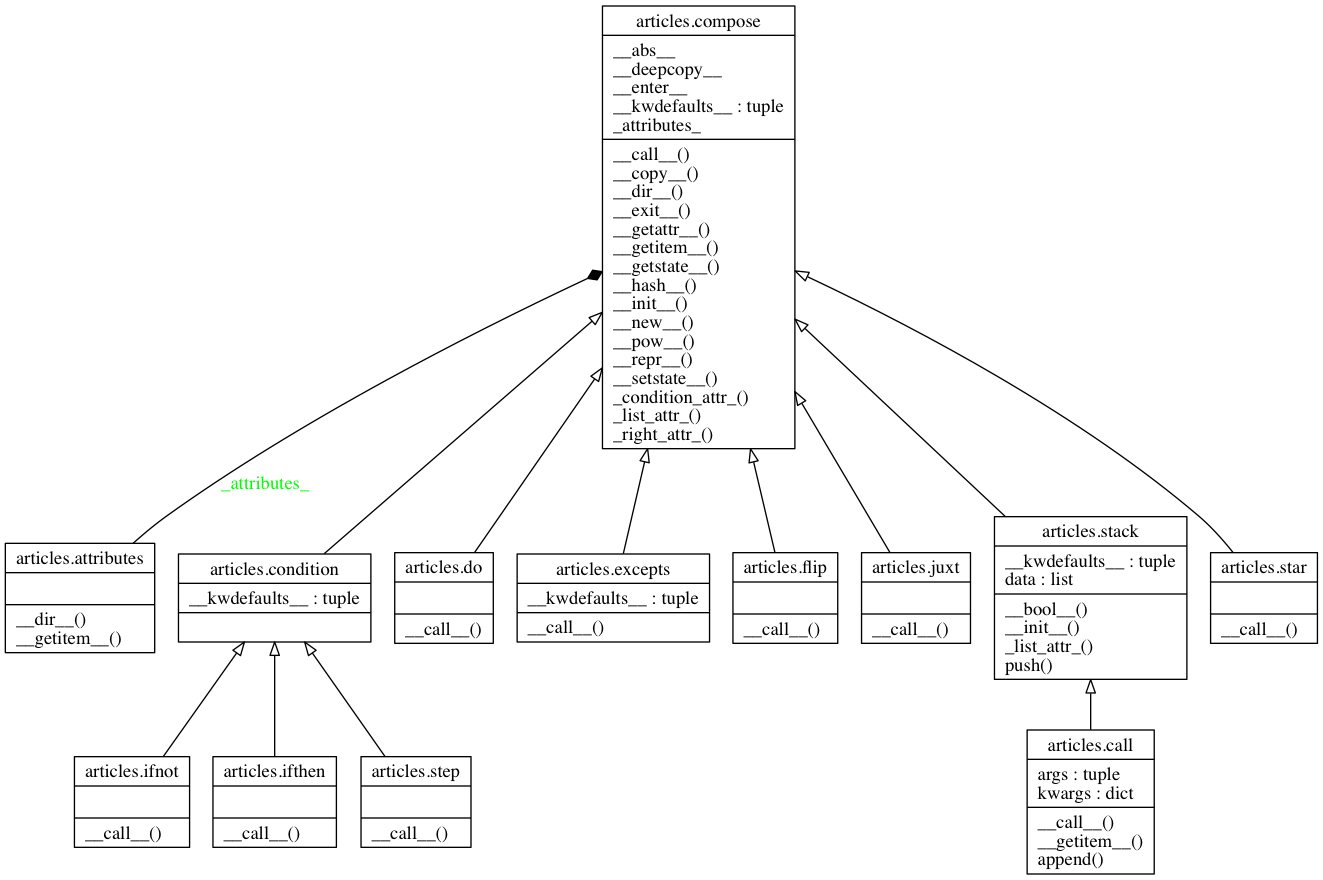
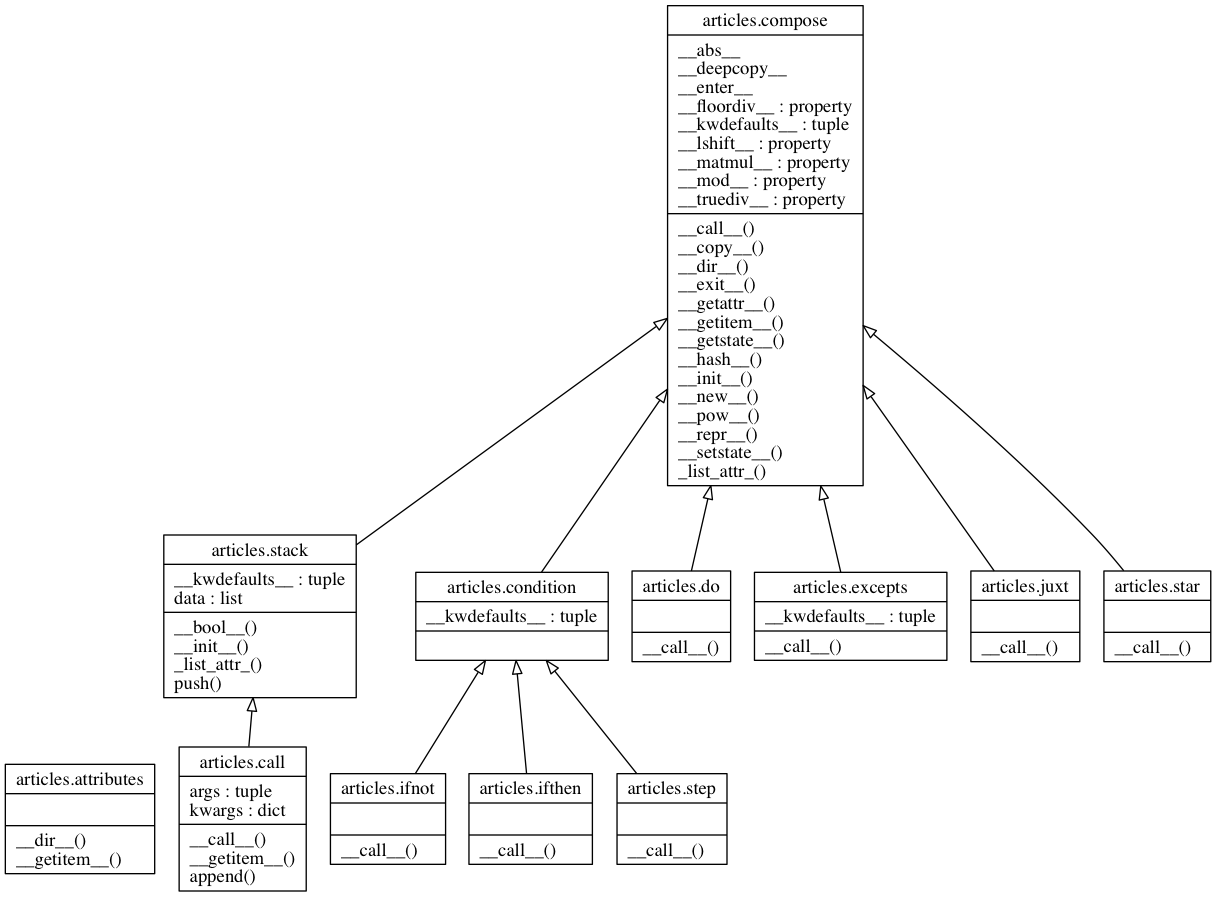
move some methods to functions

diff --git a/articles.py b/articles.py
@@ -1,12 +1,12 @@
 
 # coding: utf-8
 
-# `articles` are `callable` user defined lists in python. Use arthimetic and list operations to compose dense higher-order functions.   
+# `articles` are `callable` user defined lists in python. Use arthimetic and list operations to compose dense higher-order functions.
 
 from functools import singledispatch, partialmethod, wraps
 from itertools import zip_longest
 from collections import ChainMap
-from toolz.curried import first, isiterable, partial, identity, count, get, concat
+from toolz.curried import first, flip, isiterable, partial, identity, count, get, concat
 from copy import copy
 __all__ = 'a', 'an', 'the', 'then', 'f', 'star', 'flip', 'do', 
 from collections import UserList, OrderedDict
@@ -14,22 +14,19 @@ from collections import UserList, OrderedDict
 dunder = '__{}__'.format
 
 
-class attributes(ChainMap):
-    def __getitem__(self, key):
-        for mapping in self.maps:
-            try:
-                object = getattr(mapping, '__dict__', mapping)[key]
-                return (
-                    not isinstance(object, compose) 
-                    and isinstance(mapping, type) and flip or compose)(object)
-            except KeyError:
-                pass
-        raise AttributeError(key)
+def methods(cls):
+    # attach all list methods to the cls
+    for attr in dir(UserList):
+        if attr[0].islower():
+            setattr(cls, attr, partialmethod(cls._list_attr_, attr))
         
-    def __dir__(self):
-        return concat(map(lambda x: getattr(x, '__dict__', x).keys(), self.maps))
+    # attach the *, +, >>, - operators
+    for other in ['mul', 'add', 'rshift' ,'sub']:
+        setattr(cls, dunder(other), getattr(cls, 'append'))
+    return cls
 
 
+@methods
 class compose(UserList):
     __kwdefaults__ = ['data', list()],
         
@@ -43,21 +40,17 @@ class compose(UserList):
         super().__init__()
         for i, (slot, arg) in enumerate(zip_longest(self.__slots__, args)):
             default = self.__kwdefaults__[slot]
-
-            arg = kwargs.pop(slot, copy(default) if i >= len(args) else arg)
+            if i >= len(args):
+                arg = copy(default)
+                
+            arg = kwargs.pop(slot, arg)
             
-            if slot == 'data' and isinstance(arg, dict): arg = arg.items()
-
             if isiterable(default):
                 if not isiterable(arg):
                     arg = type(default)([arg])
                 if not isinstance(arg, type(default)):
                     arg = type(default)(arg)
-                    
             setattr(self, slot, arg)
-            
-
-    _attributes_ = attributes(*map(__import__, ['builtins', 'pathlib', 'operator', 'json', 'toolz']))
          
     def __getattr__(self, attr):
         if hasattr(type(self), attr):
@@ -72,7 +65,7 @@ class compose(UserList):
     def __getitem__(self, object):
         if object == slice(None):
             return self
-        if isiterable(object):
+        if isinstance(object, tuple):
             object = juxt(object)
         if callable(object):
             return self.append(object)
@@ -82,8 +75,8 @@ class compose(UserList):
         return list(super().__dir__()) + dir(self._attributes_)
     
     def __call__(self, *args, **kwargs):
-        for value in self:
-            args, kwargs = (value if not callable(value) else [value(*args, **kwargs)]), dict()
+        for callable in self:
+            args, kwargs = [callable(*args, **kwargs)], dict()
         return args[0] if len(args) else None    
             
     def __getstate__(self):
@@ -108,14 +101,9 @@ class compose(UserList):
     def __repr__(self):
         return ':'.join(map(repr, self.__getstate__()))
     
-    def _condition_attr_(self, callable, object):
-        return type(self)().append(callable(self, object))
     
     def _list_attr_(self, attr, *args):
         return getattr(super(), attr)(*args) or self
-    
-    def _right_attr_(self, attr, other):
-        return getattr(compose([other]), attr)(self)
 
     def __pow__(self, object):
         if isinstance(object, type):
@@ -126,22 +114,17 @@ class compose(UserList):
 
     __abs__ = __call__
     __enter__ = __deepcopy__ = __copy__
-
-
-compose._attributes_ = compose._attributes_.new_child(__import__('pathlib').Path)
+    
+    __truediv__ = property(partial(flip(__getattr__), 'map'))
+    __floordiv__ = property(partial(flip(__getattr__), 'filter'))
+    __matmul__ = property(partial(flip(__getattr__), 'groupby'))
+    __mod__ = property(partial(flip(__getattr__), 'reduce'))
+    __lshift__ = property(partial(flip(__getattr__), 'do'))
 
 
 class juxt(compose):
-    __kwdefaults__ = ['data', list()], ['type', tuple]
-    def __init__(self, *args):
-        super().__init__(*args)
-        if isiterable(args[0]):
-            self.type = type(args[0])
-            
     def __call__(self, *args, **kwargs):
-        return self.type((
-            (not isinstance(callable, str) and isiterable(callable)) 
-            and juxt or identity)(compose(callable))(*args, **kwargs) for callable in self)
+        return tuple((isinstance(callable, tuple) and juxt or identity)(callable)(*args, **kwargs) for callable in self)
 
 
 class flip(compose):
@@ -199,6 +182,7 @@ class excepts(compose):
             return e
 
 
+@methods
 class stack(compose):
     __kwdefaults__ = ['data', list([compose()])], 
     
@@ -207,9 +191,6 @@ class stack(compose):
         self.data = list(map(copy, self.data))
 
     def _list_attr_(self, attr, *args):
-        if attr == 'pop':
-            self.data.pop(*args)
-            return self
         try:
             self[-1]._list_attr_(attr, *args)
         except AttributeError:
@@ -223,6 +204,12 @@ class stack(compose):
 
     def __bool__(self):
         return any(map(bool, self))
+    
+def _pop(self, *args):
+    self.data.pop(*args)
+    return self
+
+stack.pop = _pop
 
 
 class call(stack):
@@ -242,28 +229,44 @@ class call(stack):
         self = type(self)()
         self.args, self.kwargs = args, kwargs
         return self
+    
 
 
-for cls in [compose, stack, call]:
-    for attr in dir(UserList):
-        if attr[0].islower() and call is not cls:
-            setattr(cls, attr, partialmethod(cls._list_attr_, attr))
-        
-    for other in ['mul', 'add', 'rshift' ,'sub']:
-        setattr(cls, dunder(other), getattr(cls, 'append'))
+def _condition_attr_(self, callable, object):
+    """"""
+    return type(self)().append(callable(self, object))
 
-compose.__and__ = partialmethod(compose._condition_attr_, step)
-compose.__or__ = partialmethod(compose._condition_attr_, ifnot)
-compose.__xor__ = partialmethod(compose._condition_attr_, excepts)
-compose.__truediv__ = property(partial(flip(compose.__getattr__), 'map'))
-compose.__floordiv__ = property(partial(flip(compose.__getattr__), 'filter'))
-compose.__matmul__ = property(partial(flip(compose.__getattr__), 'groupby'))
-compose.__mod__ = property(partial(flip(compose.__getattr__), 'reduce'))
-compose.__lshift__ = property(partial(flip(compose.__getattr__), 'do'))
+def _right_attr_(self, attr, other):
+    return getattr(compose([other]), attr)(self)
+
+
+compose.__and__ = partialmethod(_condition_attr_, step)
+compose.__or__ = partialmethod(_condition_attr_, ifnot)
+compose.__xor__ = partialmethod(_condition_attr_, excepts)
 
 for other in ['mul', 'add', 'rshift' ,'sub', 'and', 'or', 'xor', 'truediv', 'floordiv', 'matmul', 'mod', 'lshift']:
     setattr(compose, dunder('i'+other), getattr(compose, dunder(other)))
-    setattr(cls, dunder('r'+other), partialmethod(cls._right_attr_, dunder(other)))
+    setattr(compose, dunder('r'+other), partialmethod(_right_attr_, dunder(other)))
+
+
+class attributes(ChainMap):
+    def __getitem__(self, key):
+        for mapping in self.maps:
+            try:
+                object = getattr(mapping, '__dict__', mapping)[key]
+                return (
+                    not isinstance(object, compose) 
+                    and isinstance(mapping, type) and flip or compose
+                )(object)
+            except KeyError:
+                pass
+        raise AttributeError(key)
+        
+    def __dir__(self):
+        return concat(map(lambda x: getattr(x, '__dict__', x).keys(), self.maps))
+
+
+compose._attributes_ = attributes(*map(__import__, ['builtins', 'pathlib', 'operator', 'json', 'toolz'])).new_child(__import__('pathlib').Path)
 
 
 a = an = the = then = f = call()

diff --git a/readme.md b/readme.md
@@ -71,7 +71,7 @@ Convert the single Jupyter notebook to a python script.
 ```
 
     [NbConvertApp] Converting notebook articles.ipynb to python
-    [NbConvertApp] Writing 8736 bytes to articles.py
+    [NbConvertApp] Writing 8813 bytes to articles.py
 
 
 ## `articles` structure
@@ -85,6 +85,11 @@ Convert the single Jupyter notebook to a python script.
 ```
 
     [NbConvertApp] Converting notebook readme.ipynb to markdown
-    [NbConvertApp] Writing 1532 bytes to readme.md
+    [NbConvertApp] Writing 1709 bytes to readme.md
     parsing /Users/tonyfast/fidget/articles.py...
 
+
+
+```python
+
+```
